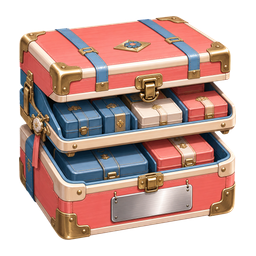
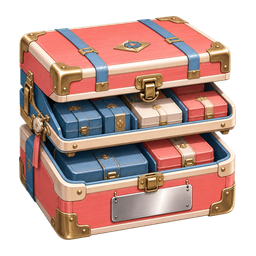
chore(build): 接通第三批好感资产门禁与交接

diff --git a/docs/31-PROGRESS.md b/docs/31-PROGRESS.md
@@ -10,10 +10,10 @@
 | 项 | 值 |
 |---|---|
 | **更新时间** | 2026-07-28 |
-| **当前里程碑** | **M3 养成深度第一层：4 / 13；M5 提前完成 2 / 9；Galgame 好感两批、奇遇完整视觉首批与挂机自动技能演出卡带完成**（M5-1 套装核心、M5-4 装备副本、P-1～P-7 挂机表现层、A-1～A-2 好感养成和 E-1～E-5 奇遇管线已完成；M2 保持 15 / 16，仅待所有者真机测试） |
-| **完成度** | 61 / 152（按 `30-ROADMAP.md` 的 152 个可勾选任务统计） |
-| **代码状态** | `SAVE_VERSION=9`；四职业共用稳定技能卡接口与同源挂机节奏快照；四角色好感现有 24 幕、72 个选择、40 件心虹珍藏与 72 个运行时资产；奇遇新增 28 张人物差分、16 张专属场景与 2 张高潮 CG，逐句立绘键和资产校验进入主流程；44 个测试文件、604 个测试全绿，`npm run verify`、双尺寸浏览器验收与奇遇资产审计保持通过 |
-| **可玩状态** | 四职业共享账号进度、独立角色好感；挂机战场下方会自动轮转粉蓝玻璃技能卡；养成页每角色已有 6 幕换装剧情；旅途奇遇现会按台词切换茜 / 穗真实动作差分，日常使用各自场景，第三幕回答播完定格物件 CG，手札用同一套场景和立绘无奖励回放 |
+| **当前里程碑** | **M3 养成深度第一层：4 / 13；M5 提前完成 2 / 9；Galgame 好感三批、奇遇完整视觉首批与挂机自动技能演出卡带完成**（M5-1 套装核心、M5-4 装备副本、P-1～P-7 挂机表现层、A-1～A-3 好感养成和 E-1～E-5 奇遇管线已完成；M2 保持 15 / 16，仅待所有者真机测试） |
+| **完成度** | 62 / 153（按 `30-ROADMAP.md` 的 153 个可勾选任务统计） |
+| **代码状态** | `SAVE_VERSION=9`；四职业共用稳定技能卡接口与同源挂机节奏快照；四角色好感现有 36 幕、108 个选择、132 条记忆回响、12 件可送礼物、40 件心虹珍藏与 100 个运行时资产；奇遇另有 28 张人物差分、16 张专属场景与 2 张高潮 CG；45 个测试文件、619 个测试全绿，`npm run verify` 会同时执行 lint、类型检查、单测与奇遇 / 好感资产审计 |
+| **可玩状态** | 四职业共享账号进度、独立角色好感；挂机战场下方会自动轮转粉蓝玻璃技能卡；养成页每角色已有 9 幕换装剧情和 3 件偏好礼物，送礼共享每日次数与心虹保底；剧情弹窗支持自动播放、对白回放、跳过、场景转场和 CG 白闪，场景与对白无黑带；旅途奇遇会按台词切换茜 / 穗真实动作差分并可在手札无奖励回放 |
 | **GitHub 仓库** | https://github.com/1449690477/yingrenchuanshuo |
 | **部署地址** | https://1449690477.github.io/yingrenchuanshuo/ |
 
@@ -31,6 +31,7 @@
 | ✅ 用户插队完成 | **R-1 共享进度角色切换** | 养成页四职业可随时切换；不新建角色槽、不触发离线结算，也不改变等级 / 资产 / 关卡 / RNG。通用装备留槽，旧职业专属装备原样回包锁定；战斗中保留当前怪物掉血比例并重置旧演出 |
 | ✅ 用户插队完成 | **A-1 Galgame 好感养成第一批** | 四位成年角色各有独立心意、每日次数、剧情选择、掉落保底和永久图鉴；24 个互动、12 幕剧情、40 件心虹装备、56 个运行时资产完整接通。选择奖励相同，回看不重复领奖，好感真实进入挂机 / 副本属性；390 × 844 / 320 × 568 已验收 |
 | ✅ 用户插队完成 | **A-2 Galgame 好感养成第二批** | 四角色各新增第 4～6 幕，共 12 幕、36 个新选择和 84 条选择记忆回调；520 / 900 / 1400 门槛、线性前置与每幕 60 心意均由配置和测试锁定。新增 12 张无人场景、4 张物件 CG，总量达到 24 幕与 72 个运行时资产；沿用 v9 无迁移，390 × 844 / 320 × 568 剧情、CG、切角、焦点和触控验收通过 |
+| ✅ 用户插队完成 | **A-3 Galgame 好感养成第三批** | 四角色各新增第 7～9 幕，共 12 幕、36 个等额选择和 48 条新记忆回响；新增每角色 3 件、共 12 件偏好礼物，材料取自前两章真实掉落，送礼复用普通互动的每日次数、随机序号与第 16 次心虹保底，缺料 / 达上限 / 奖励构造异常均不会半扣资源。新增 12 图标、12 场景与 4 CG，总量达到 36 幕、108 个选择、132 条回响与 100 个运行时资产；沿用 v9 无迁移，剧情黑带与工具栏遮挡修复后完成 390 × 844 / 320 × 568 实机验收 |
 | ✅ 用户插队完成 | **P-1～P-7 挂机战斗表现层** | 四职业动作、装备 / 技能命中特效、49 怪显式动作模组、逐击受击 / 暴击 / 飘字、战斗信息层与聚合掉落窗均已接通；新增同源自动技能卡带、稳定技能 ID、演出冷却 / 条件待机 / 等级锁、触控反馈与焦点受控详情；新关首批真实拍会在入场后播放，升级解锁也会在同一帧同步快照；表现层不会伪装成 M3-4 真实技能结算 |
 | ✅ 用户插队完成 | **E-2 奇遇章节开放** | 六个奇遇从成本材料首次可获得的章节起进入候选池；使用历史已解锁进度，回旧关不重新上锁，旧队列不清理且无需存档迁移 |
 | ✅ 用户插队完成 | **E-3 角色连续奇遇** | 茜 / 穗各三幕主线与可重复日常；回答、角色回应和材料援助分步保存，后续会回忆旧回答但选择不改变奖励；关系仅显示四档阶段，v7 存档迁移至 v8 |
@@ -71,10 +72,10 @@ M1-10 的数值校验**推翻了文档里三处原始设计**，全部记录在 
 
 ## 下一个任务
 
-1. 好感后续 **A-3** 可增加角色礼物偏好与礼物剧情，但仍须遵守“成年平等伙伴、选择不惩罚、当前换装入镜”的边界。
-2. 装备副本下一步做 **M5-2**：套装碎片、3 换 1 合成与跨部位转换；必须继续使用 seeded RNG / 原子事务。
-3. 随后做 **M5-5** 套装图鉴页：显示 80 件已集齐 / 缺失、掉落门户与一键跳转；当前副本卡已有套装节点，但还不是完整收藏页。
-4. 主线继续 **M3-3～M3-5**：补齐四职业 56 技能、真实优先级 / 冷却 / 逐击执行器与技能树。
+1. 装备副本下一步做 **M5-2**：套装碎片、3 换 1 合成与跨部位转换；必须继续使用 seeded RNG / 原子事务。
+2. 随后做 **M5-5** 套装图鉴页：显示 80 件已集齐 / 缺失、掉落门户与一键跳转；当前副本卡已有套装节点，但还不是完整收藏页。
+3. 主线继续 **M3-3～M3-5**：补齐四职业 56 技能、真实优先级 / 冷却 / 逐击执行器与技能树。
+4. 好感后续若进入第四批，优先补约会日程与语音框架；仍须遵守“成年平等伙伴、选择不惩罚、当前换装入镜”的边界。
 5. **M2-15** 仍由项目所有者在真实 iOS / Android 手机浏览器试玩；桌面 390 × 844 模拟不能代替真机验收。
 
 ## 环境状态
@@ -105,7 +106,7 @@ M1-10 的数值校验**推翻了文档里三处原始设计**，全部记录在 
 | 13 | 双方血条已按当前目标、战斗公式和遭遇进度正确投影；但完整的逐次命中 / 暴击 / 技能冷却事件尚未接入，当前不会保存一只怪跨页面的实时 HP | M3-4 接入 seeded 前台战斗事件后替换期望值投影 |
 | 14 | 四职业目前共用一套穿戴栏，不记忆每个职业各自的装备预设；切回旧职业后需手动穿回专属武器 | 若要“一键切回原套装”，与 M5-8 多套装备预设统一实现；届时需要存档迁移 |
 | 15 | 装备副本已展示当前档套装节点与职业掉落，但还没有跨 80 件的完整收藏 / 缺件图鉴 | M5-5 实现套装图鉴与掉落跳转，不在副本卡内复制第二套收藏状态 |
-| 16 | Galgame 好感两批已达到每位角色 6 幕；高潮图继续使用不含固定人物的物件 CG，以保证任意换装都不跳回旧立绘；礼物偏好与语音尚未制作 | 后续 A-3 若增加礼物或人物插画，必须继续使用运行时纸娃娃合成，或为所有可见服装建立可验证组合 |
+| 16 | Galgame 好感三批已达到每位角色 9 幕并接通礼物偏好；高潮图继续使用不含固定人物的物件 CG，以保证任意换装都不跳回旧立绘；语音与约会日程尚未制作 | 后续若增加人物插画，必须继续使用运行时纸娃娃合成，或为所有可见服装建立可验证组合 |
 
 ## 待项目所有者决定
 
@@ -117,6 +118,7 @@ M1-10 的数值校验**推翻了文档里三处原始设计**，全部记录在 
 
 | 日期 | AI | 做了什么 |
 |---|---|---|
+| 2026-07-28 | Codex / Kimi | **A-3 Galgame 好感养成第三批完成**：四角色各新增第 7～9 幕，共 12 幕、36 个等额选择和 48 条新记忆回响；新增 12 件偏好礼物，前两章材料、每日次数、随机序号与心虹保底使用同一原子事务，失败不半扣。生成并实装 12 张礼物图标、12 张无人场景与 4 张物件 CG，好感运行时资产总量达到 100；Kimi 的全屏场景、自动播放、对白回放、跳过、转场与 CG 白闪一并合入，并修复截图中的图文黑带和工具栏层级；390 × 844 / 320 × 568 无溢出、控制台零告警，45 个测试文件、619 个测试、双资产门禁与生产构建全绿 |
 | 2026-07-28 | Codex | **E-5 奇遇 Galgame 完整视觉首批完成**：为见习刀匠·茜和草原信使·穗制作 28 张同脸同服装的动作 / 表情差分、12 张角色专属场景、4 张普通奇遇场景及 2 张物件高潮 CG；主窗口与手札共用逐句立绘指令，六个日常各有独立场景，第三幕回答播完才切入无人物定格 CG。移除字符与区域地图兜底，新增严格资源表、像素去重 / 透明边缘 / 体积审计、完整提示词和 QA 存档；390 × 844 / 320 × 568 完成人物裁切、高潮、普通事件、手札、键盘焦点和读屏验收，44 个测试文件、604 个测试与 46 资产门禁全绿 |
 | 2026-07-28 | Codex | **A-2 Galgame 好感养成第二批完成**：四角色各新增第 4～6 幕，共 12 幕、36 个新选择与 84 条旧选择记忆回响；门槛为 520 / 900 / 1400，每幕等额 +60 心意且严格检查前置，沿用 v9 不新增迁移。生成、校正并审计 12 张无人场景与 4 张物件 CG，好感运行时资产总量达到 72；390 × 844 / 320 × 568 完成换装角色、选择、CG、切角、焦点和触控验收，控制台零告警；43 个测试文件、596 个测试与生产构建全绿 |
 | 2026-07-28 | Codex | **P-7 自动技能演出卡带完成**：挂机战场下方新增四卡同屏的粉蓝玻璃卡带，真实挂机拍子驱动基础行动 / 主动技能的释放弹跳、扫光、粒子、冷却遮罩与下一张提示；四职业使用同一稳定 `skillId` 配置入口，回复 / 召唤等条件技能不伪造伤害，低等级显示后续解锁；详情弹层支持焦点约束、Esc、焦点恢复与点击短震，角色升级解锁会原子同步快照；390 × 844 / 320 × 568 四职业实切无溢出、控制台零告警，43 个测试文件、586 个测试全绿 |

diff --git a/docs/30-ROADMAP.md b/docs/30-ROADMAP.md
@@ -4,7 +4,7 @@
 > 每个任务设计成「一次 AI 会话可完成」的大小。做不完就拆，不要硬做。
 > **未跑通 `npm run verify` 不许打勾。**
 
-进度总览：`61 / 152` 已完成（M0 + M1 完成，M2 完成 15 / 16，精品商店试水 3 / 3，喵喵第四职业 1 / 1，共享进度角色切换 1 / 1，Galgame 好感养成两批 2 / 2，挂机战斗表现层 7 / 7，奇遇试玩 5 / 5，强化补完 3 / 3，M3 完成 4 / 13，M4 提前完成 1 / 12，M5 提前完成 2 / 9；分母按本文件 152 个可勾选任务统计）
+进度总览：`62 / 153` 已完成（M0 + M1 完成，M2 完成 15 / 16，精品商店试水 3 / 3，喵喵第四职业 1 / 1，共享进度角色切换 1 / 1，Galgame 好感养成三批 3 / 3，挂机战斗表现层 7 / 7，奇遇试玩 5 / 5，强化补完 3 / 3，M3 完成 4 / 13，M4 提前完成 1 / 12，M5 提前完成 2 / 9；分母按本文件 153 个可勾选任务统计）
 
 ---
 
@@ -74,12 +74,13 @@
 
 - [x] **R-1** 养成页支持四职业随时切换：等级、经验、货币、材料、关卡、强化、商店、奇遇与随机状态使用同一份账号进度；通用装备继续穿戴，旧职业专属装备原样回到背包并自动锁定；战斗中切换保留当前怪物掉血比例并清理旧职业演出。无需新增存档字段或迁移，完成 390 × 844 / 320px 交互、刷新持久化、四职业资源与控制台验收
 
-## 用户插队 · Galgame 好感养成与心虹珍藏两批（2026-07-28）✅ 已完成
+## 用户插队 · Galgame 好感养成与心虹珍藏三批（2026-07-28）✅ 已完成
 
 > 四位可玩角色均为成年平等伙伴；选择只改变回应与后续记忆，不用数值惩罚逼玩家照攻略。
 
 - [x] **A-1** 养成页接通四角色独立好感、24 个日常互动、12 幕三选一剧情、04:00 日切、真实战斗加护与可关闭短震；新增每角色 10 件、合计 40 件心虹珍藏及缺件优先 / 第 16 次硬保底，40 张透明图标、12 张动态换装剧情背景与 4 张物件 CG 全部进入运行时并通过自动审计；存档升 v9，390 × 844 / 320 × 568 实机完成剧情、收藏、切角和设置持久化验收
 - [x] **A-2** 四角色各扩展第 4～6 幕，使用 520 / 900 / 1400 心意门槛、严格线性前置和每幕固定 60 心意；第 4 / 5 / 6 幕分别回响 2 / 2 / 3 次旧选择，新增 12 张无人场景与 4 张物件 CG，使总量达到 24 幕、72 个选择和 72 个好感运行时资产；沿用 v9 无迁移，390 × 844 / 320 × 568 完成剧情、角色切换、奖励、焦点、触控与素材实机验收
+- [x] **A-3** 四角色各扩展第 7～9 幕，使用 1700 / 2100 / 2600 心意门槛，以“礼物不构成债务 → 明确偏好 → 平等互赠”为主题补齐 36 个等额选择与 48 条新记忆回响；新增每角色 3 件、共 12 件偏爱 / 喜欢 / 合心礼物，消耗前两章现有材料并与普通互动共享每日次数、随机序号和心虹保底，失败事务不扣材料；新增 12 张礼物图标、12 张无人场景与 4 张物件 CG，使总量达到 36 幕、108 个选择、132 条记忆回响与 100 个好感运行时资产；沿用 v9 无迁移，并修复剧情场景图与对白间黑带、工具栏被标题层遮挡，390 × 844 / 320 × 568 实机验收通过
 
 ## 用户插队 · 挂机战斗表现层七块（2026-07-27～2026-07-28）
 

diff --git a/docs/33-美术资产生产与清单.md b/docs/33-美术资产生产与清单.md
@@ -101,7 +101,7 @@ public/assets/affection/cg/<class>/<story-id>.webp
 | 樱花珍品店场景 | 1 张 900×600 店内货架与中央裙装陈列背景 | ✅ 接入商店顶部场景，390 × 844 下与筛选、双列货架、试穿详情共同通过 |
 | 精品商店批次总计 | 99 个运行时文件；绿幕母版、提示词与验收记录位于 `art-source/shop/` | ✅ ImageGen 独立生成 → 官方脚本抠图 → 压缩 → 自动测试 → 十二套洛丽塔组合、喵喵纸箱套与真机视口截图 |
 | 镜界装备回廊 | 8 门户战场、16 个随从 / 守关者、80 个独立装备图标、64 个四职业换装文件 | ✅ 共 168 个运行时资产；绿幕母版归档、精确清单 / alpha / 残绿 / 边距 / 体积自动审计，并接入 32 关、80 件装备与 390×844 副本实机流程 |
-| Galgame 好感两批 | 四角色各 10 张心虹装备图标、6 张无人物剧情背景与 2 张物件 CG，共 72 个运行时文件 | ✅ 第一批完整闭环与第二批第 4～6 幕均已接通；提示词、源图和两轮四职业联系表已归档，通过 `npm run assets:affection:check` 精确审计；第二批移动端剧情验收见本轮进度记录 |
+| Galgame 好感三批 | 四角色各 10 张心虹装备图标、3 张礼物图标、9 张无人物剧情背景与 3 张物件 CG，共 100 个运行时文件 | ✅ 三批 36 幕剧情、12 件偏好礼物与完整心虹闭环均已接通；提示词、绿幕母版、源图和三轮四职业联系表已归档，通过 `npm run assets:affection:check` 精确审计；第三批送礼与剧情双尺寸验收见本轮进度记录 |
 
 锻造阶段光环的透明母版与提示词位于 `art-source/forge/`，棋盘格合成验收图为
 `art-source/qa/forge-stage-overlays.png`；运行时文件位于
@@ -142,11 +142,16 @@ public/assets/affection/cg/<class>/<story-id>.webp
 好感素材的提示词与生成边界位于 `art-source/affection/PROMPTS.md`，运行时资产通过
 `npm run assets:affection` 重建并通过 `npm run assets:affection:check` 审计。第一批
 四职业完整素材拼图为 `art-source/qa/affection-<class>-assets.png`，第二批第 4～6 幕
-与高潮 CG 联系表为 `art-source/qa/affection-round2-<class>-contact-sheet.png`；养成首屏、动态换装剧情、心虹收藏、
+与高潮 CG 联系表为 `art-source/qa/affection-round2-<class>-contact-sheet.png`；第三批第 7～9 幕、
+高潮 CG 与礼物图标联系表分别为 `art-source/qa/affection-round3-<class>-contact-sheet.png` 和
+`art-source/qa/affection-round3-gifts-contact-sheet.png`。养成首屏、动态换装剧情、心虹收藏、
 320px 触感开关和切换喵喵后的独立进度验收图分别为
 `affection-growth-390.png`、`affection-story-390.png`、
 `affection-gallery-390.png`、`affection-haptics-320.png` 与
-`affection-catkin-growth-390.png`。
+`affection-catkin-growth-390.png`；第三批送礼架、剧情工具栏与截图黑带修复验收图位于
+`affection-round3-browser-390.png`、`affection-round3-browser-320.png`、
+`affection-round3-story-modal-tools-390.png`、`affection-round3-story-modal-tools-320.png` 与
+`affection-blackband-fix-final-390.png`。
 
 ## 七、旅途奇遇 Galgame 首批美术
 

diff --git a/AGENTS.md b/AGENTS.md
@@ -143,7 +143,7 @@ balance(core): 下调 Lv40-50 段怪物血量 15%，缓解卡点
 
 > 这一节由每个 AI 在结束工作时更新，让下一个 AI 一眼知道现状。
 
-- **当前阶段**：M3 已完成 4 / 13；M5 提前完成 2 / 9（M5-1 套装核心、M5-4 装备副本）；挂机战斗表现层 7 / 7、Galgame 好感两批 2 / 2、旅途奇遇 5 / 5 已完成；M2 保持 15 / 16（仅待所有者真机测试）
-- **代码状态**：四职业共享进度与切换保持可玩；存档为 v9；挂机战场已有同源自动技能卡带；「镜界装备回廊」、四角色 Galgame 好感两批（24 幕、72 个运行时资产）继续完整可玩；旅途奇遇新增茜 / 穗 28 张逐句动作差分、16 张专属场景与 2 张高潮 CG，主窗口和手札同源回放；44 个测试文件、604 个测试与 46 资产门禁全绿
+- **当前阶段**：M3 已完成 4 / 13；M5 提前完成 2 / 9（M5-1 套装核心、M5-4 装备副本）；挂机战斗表现层 7 / 7、Galgame 好感三批 3 / 3、旅途奇遇 5 / 5 已完成；M2 保持 15 / 16（仅待所有者真机测试）
+- **代码状态**：四职业共享进度与切换保持可玩；存档为 v9；挂机战场已有同源自动技能卡带；「镜界装备回廊」、四角色 Galgame 好感三批（36 幕、12 件偏好礼物、100 个运行时资产）继续完整可玩；旅途奇遇有茜 / 穗 28 张逐句动作差分、16 张专属场景与 2 张高潮 CG，主窗口和手札同源回放；45 个测试文件、619 个测试、46 奇遇资产与 100 好感资产门禁全绿
 - **下一个任务**：优先完成 M5-2 套装碎片 / 3 换 1 / 跨部位转换和 M5-5 完整收藏缺件页；主线仍需 M3-3～M3-5 的四职业 56 技能、真实优先级 / 冷却 / 状态 / 逐击逻辑与技能养成 UI；M2-15 仍待所有者真机测试
 - **已定美术基调**：清新可爱、蓝白粉；装备用基础图 + 品质特效；挂机战斗使用 3:2 专用场景和波次目标，BOSS / 精英按体型放大；系统通用图标使用 Lucide，功能插画使用同风格透明位图
